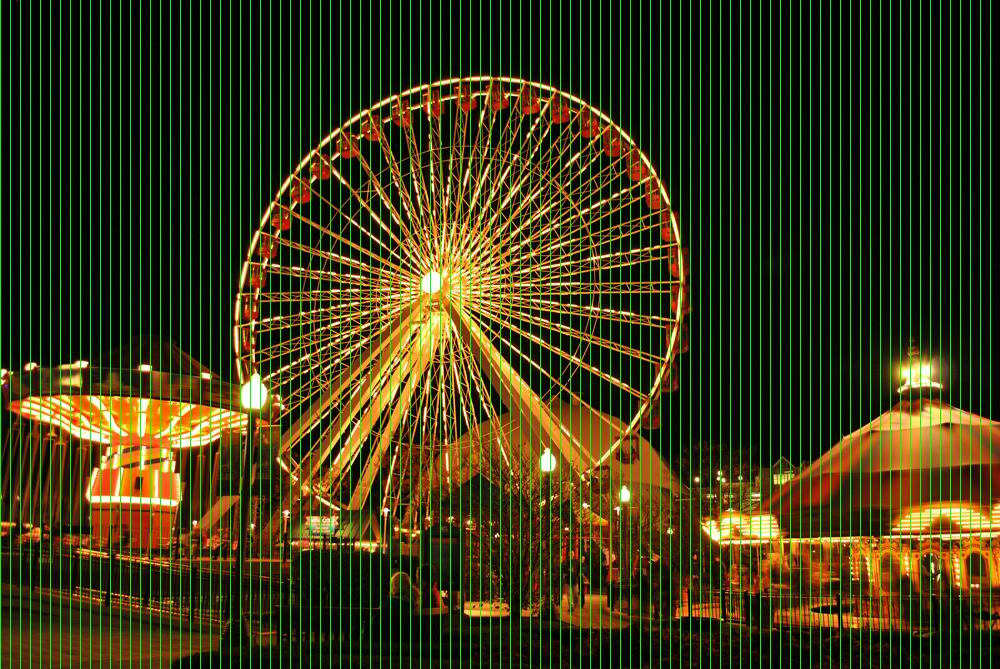
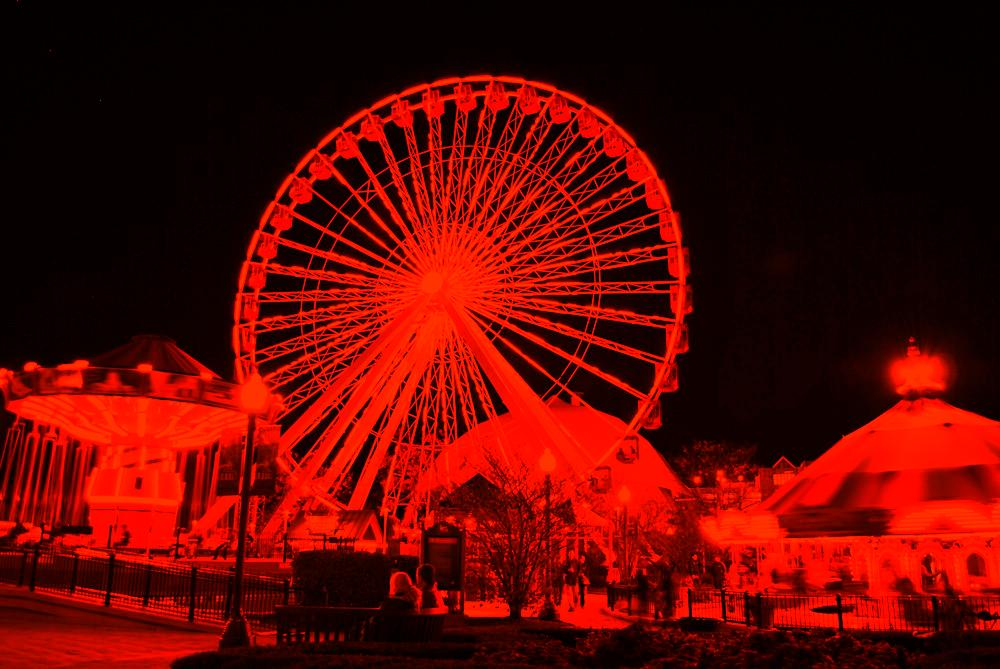
worked on images

diff --git a/ColorLabs17/TestPicture17.java b/ColorLabs17/TestPicture17.java
@@ -36,7 +36,7 @@ public class TestPicture17
 
      //apic.explore();
      ferris1.explore(); //SOP for pictures
-     somepic.explore();
+     //somepic.explore();
      
      
      //makes an array of pixels
@@ -52,7 +52,7 @@ public class TestPicture17
         //access each index
     System.out.println("Pixel 17: " + pixels[17]);
     pixels[17].setColor(Color.red); //make a change
-    ferris1.explore();
+    //ferris1.explore();
     
     //access each pixel by picture
     Pixel spot = ferris1.getPixel(100,100);
@@ -64,8 +64,8 @@ public class TestPicture17
     System.out.println();
     System.out.println(spot);
     
-    ferris1.explore();
-    ferris2.explore();
+    //ferris1.explore();
+    //ferris2.explore();
 /*
     pixels[17].setColor(Color.blue);
     spot.setColor(new Color(252,252,252));
@@ -91,15 +91,41 @@ public class TestPicture17
  /**/
  int count = 0;
  
+
+ 
     for (Pixel spot3 : pixels)
         {
             //set the red value of the current pixel to the new value
-            if (count%10 == 0)
-                spot3.setColor(Color.green);
+            //if (count%10 == 0)
+            //    spot3.setColor(Color.green);
+            int r = spot3.getRed();
+            spot3.setRed(r*2);
+            
+            int g = spot3.getGreen();
+            spot3.setGreen(g/5);
             count ++;
+            
+            int b = spot3.getBlue(0);
+            spot3.setBlue((int)(b*Math.random()*1));
         }
-    ferris1.explore();
+    //ferris1.explore();
     
+    ferris2.explore();
+    pixels = ferris2.getPixels();
+    for (Pixel spot4: pixels)
+    {
+        int r = spot4.getRed();
+        int g = spot4.getGreen();
+        int b = spot4.getBlue();
+        
+        if (r < 5 && g < 5 && b < 5)
+           {
+               r = 200;
+               b = 255;
+               g = 200;
+           }
+    }
+    ferris2.explore();
 /**/
  /**
   * Method to reduce red from picture by a factor of n
